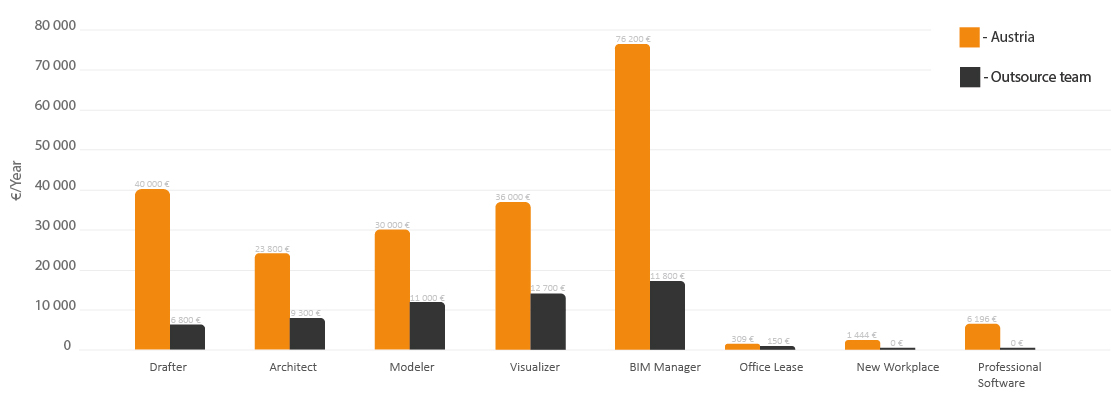
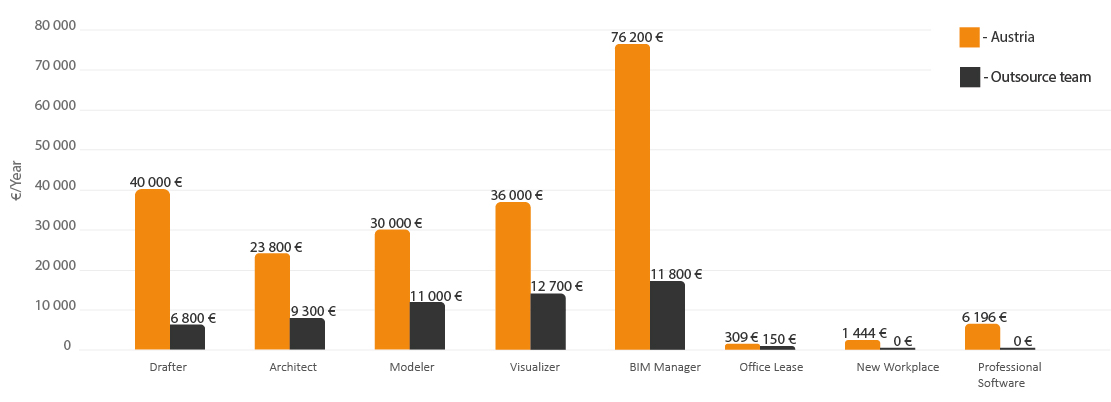
Graphics images updated

diff --git a/resources/views/index.blade.php b/resources/views/index.blade.php
@@ -196,73 +196,39 @@
             <div data-slide="10">Italy</div>
         </div>
         <div class="inforgraphic-slider">
-            {{--<div>
+            <div>
                 <img src="img/graphics/Netherland.jpg" alt="" class="img-fluid">
             </div>
-            <div>
+            <div style="width: 930px; position: relative; left: -1860px; top: 0px; ">
                 <img src="img/graphics/UK.jpg" alt="" class="img-fluid">
             </div>
-            <div>
+            <div style="width: 930px; position: relative; left: -1860px; top: 0px; ">
                 <img src="img/graphics/USA.jpg" alt="" class="img-fluid">
             </div>
-            <div>
+            <div style="width: 930px; position: relative; left: -1860px; top: 0px; ">
                 <img src="img/graphics/Germany.jpg" alt="" class="img-fluid">
             </div>
-            <div>
+            <div style="width: 930px; position: relative; left: -1860px; top: 0px; ">
                 <img src="img/graphics/Switzerland.jpg" alt="" class="img-fluid">
             </div>
-            <div>
+            <div style="width: 930px; position: relative; left: -1860px; top: 0px; ">
                 <img src="img/graphics/Denmark.jpg" alt="" class="img-fluid">
             </div>
-            <div>
+            <div style="width: 930px; position: relative; left: -1860px; top: 0px; ">
                 <img src="img/graphics/Austria.jpg" alt="" class="img-fluid">
             </div>
-            <div>
+            <div style="width: 930px; position: relative; left: -1860px; top: 0px; ">
                 <img src="img/graphics/HongKong.jpg" alt="" class="img-fluid">
             </div>
-            <div>
+            <div style="width: 930px; position: relative; left: -1860px; top: 0px; ">
                 <img src="img/graphics/Singapore.jpg" alt="" class="img-fluid">
             </div>
-            <div>
+            <div style="width: 930px; position: relative; left: -1860px; top: 0px; ">
                 <img src="img/graphics/Israel.jpg" alt="" class="img-fluid">
             </div>
-            <div>
+            <div style="width: 930px; position: relative; left: -1860px; top: 0px; ">
                 <img src="img/graphics/Italy.jpg" alt="" class="img-fluid">
-            </div>--}}
-            <div>
-                <img src="img/graphics/bar.jpg" alt="" class="img-fluid">
             </div>
-            <div>
-                <img src="img/graphics/bar.jpg" alt="" class="img-fluid">
-            </div>
-            <div>
-                <img src="img/graphics/bar.jpg" alt="" class="img-fluid">
-            </div>
-            <div>
-                <img src="img/graphics/bar.jpg" alt="" class="img-fluid">
-            </div>
-            <div>
-                <img src="img/graphics/bar.jpg" alt="" class="img-fluid">
-            </div>
-            <div>
-                <img src="img/graphics/bar.jpg" alt="" class="img-fluid">
-            </div>
-            <div>
-                <img src="img/graphics/bar.jpg" alt="" class="img-fluid">
-            </div>
-            <div>
-                <img src="img/graphics/bar.jpg" alt="" class="img-fluid">
-            </div>
-            <div>
-                <img src="img/graphics/bar.jpg" alt="" class="img-fluid">
-            </div>
-            <div>
-                <img src="img/graphics/bar.jpg" alt="" class="img-fluid">
-            </div>
-            <div>
-                <img src="img/graphics/bar.jpg" alt="" class="img-fluid">
-            </div>
-
         </div>
     </div>
 </section>
